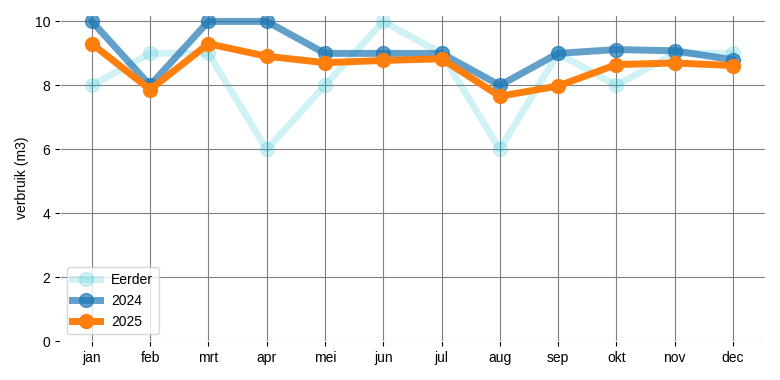
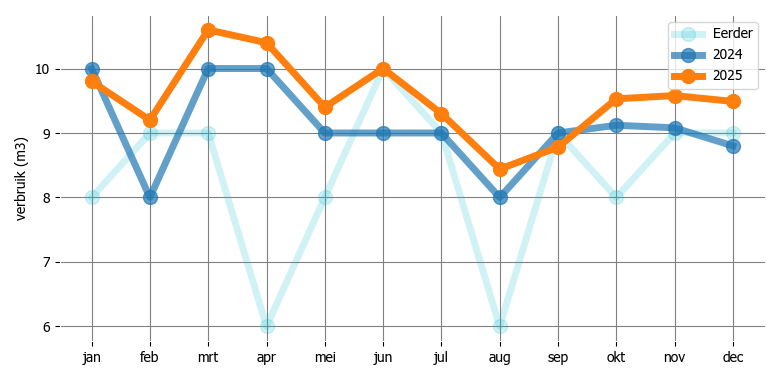
feat: Update tot en met juli 2025

diff --git a/energieverbruik.py b/energieverbruik.py
@@ -44,17 +44,18 @@ VORIG_JAAR = HUIDIG_JAAR - 1
 #
 # INVOEREN GEGEVENS HUIDIGE JAAR
 #
-MAAND = Month.jan
-DAG_VAN_MAAND = 5
+MAAND = Month.jul
+DAG_VAN_MAAND = 31
 DAGEN_IN_MAAND = MAAND.days 
-VERBRUIK_GAS = 40
-VERBRUIK_ELEKTRICITEIT = 24
-VERBRUIK_WATER = 1.5
-PRIJS_GAS = 1.2469
-PRIJS_ELEKTRICITEIT = 0.2569
+VERBRUIK_GAS = 22
+VERBRUIK_ELEKTRICITEIT = 115
+VERBRUIK_WATER = 9.3
+PRIJS_GAS = 1.20840
+PRIJS_ELEKTRICITEIT = 0.28926
 PRIJS_WATER = 1.021
-VAST_LEVERING_GAS_JAAR = 90
-VAST_LEVERING_ELE_JAAR = 90
+VAST_LEVERING_GAS_JAAR = 555.9315
+VAST_LEVERING_ELE_JAAR = 350.2942
+VERMINDERING_JAAR = 635.19
 
 # Inlezen data graaddagen, verbruik voorgaande jaar en afgeronde maanden
 df = pd.read_csv('energiedata.csv')
@@ -253,7 +254,8 @@ verschWat = (schatTotWat - sumVerbrWatVrgJr)
 maandbedrag = int((((schatTotGas * PRIJS_GAS)
                     + (schatTotEle * PRIJS_ELEKTRICITEIT)
                     + VAST_LEVERING_GAS_JAAR
-                    + VAST_LEVERING_ELE_JAAR)/12))
+                    + VAST_LEVERING_ELE_JAAR
+                    - VERMINDERING_JAAR)/12))
 
 
 #
@@ -351,7 +353,7 @@ maanden = ["jan", "feb", "mrt", "apr", "mei", "jun", "jul", "aug", "sep",
 rcParams['axes.edgecolor'] = 'White'
 rcParams['figure.figsize'] = [7.8, 3.8]
 rcParams['font.family'] = ['sans-serif']
-rcParams['font.sans-serif'] = ['Liberation Sans']
+rcParams['font.sans-serif'] = ['Tahoma']
 
 def GrafiekGas():
     # Grafiek gasverbruik
@@ -366,7 +368,7 @@ def GrafiekGas():
     #plotGas.xlabel("maand", color='White')
     plotGas.ylabel("verbruik (m3)", color='Black')
     plotGas.tick_params(colors='Black')
-    plotGas.ylim(bottom=0)
+    #plotGas.ylim(bottom=0)
     plotGas.grid(color='Gray')
     plotGas.legend()
     plotGas.tight_layout()
@@ -387,7 +389,7 @@ def GrafiekElektriciteit():
     #plotEle.xlabel("maand", color='White')
     plotEle.ylabel("verbruik (kWh)", color='Black')
     plotEle.tick_params(colors='Black')
-    plotEle.ylim(bottom=0)
+    #plotEle.ylim(bottom=0)
     plotEle.grid(color='Gray')
     plotEle.legend()
     plotEle.tight_layout()
@@ -408,7 +410,7 @@ def GrafiekWater():
     #plotWat.xlabel("maand", color='White')
     plotWat.ylabel("verbruik (m3)", color='Black')
     plotWat.tick_params(colors='Black')
-    plotWat.ylim(bottom=0)
+    #plotWat.ylim(bottom=0)
     plotWat.grid(color='Gray')
     plotWat.legend()
     plotWat.tight_layout()
